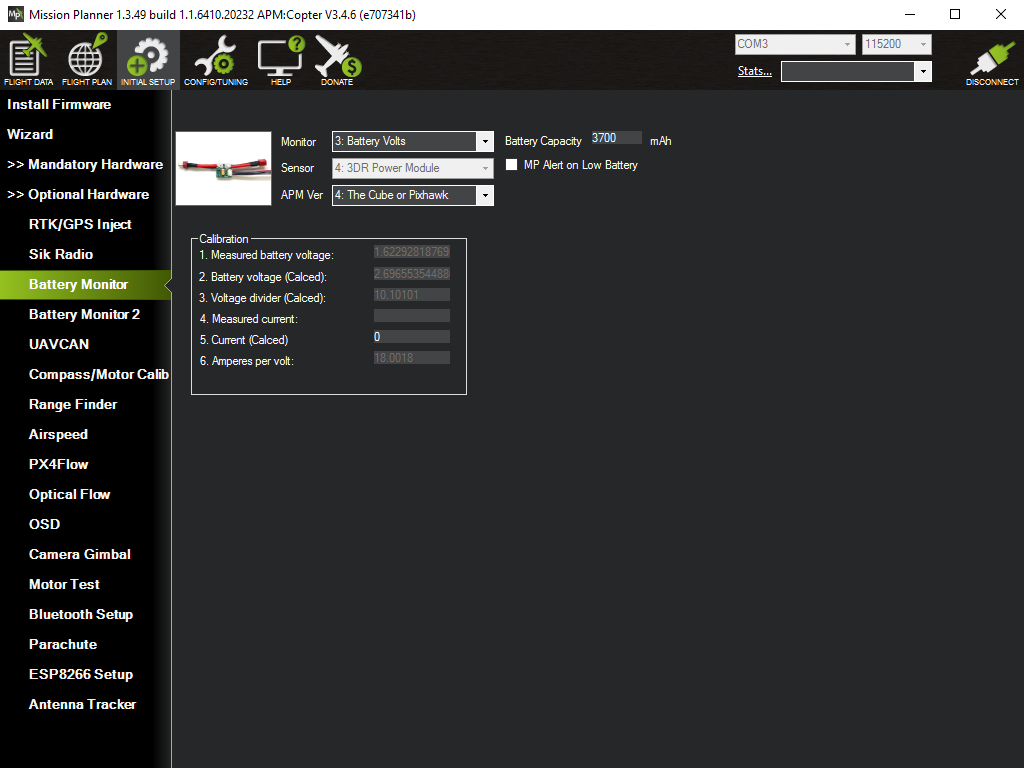
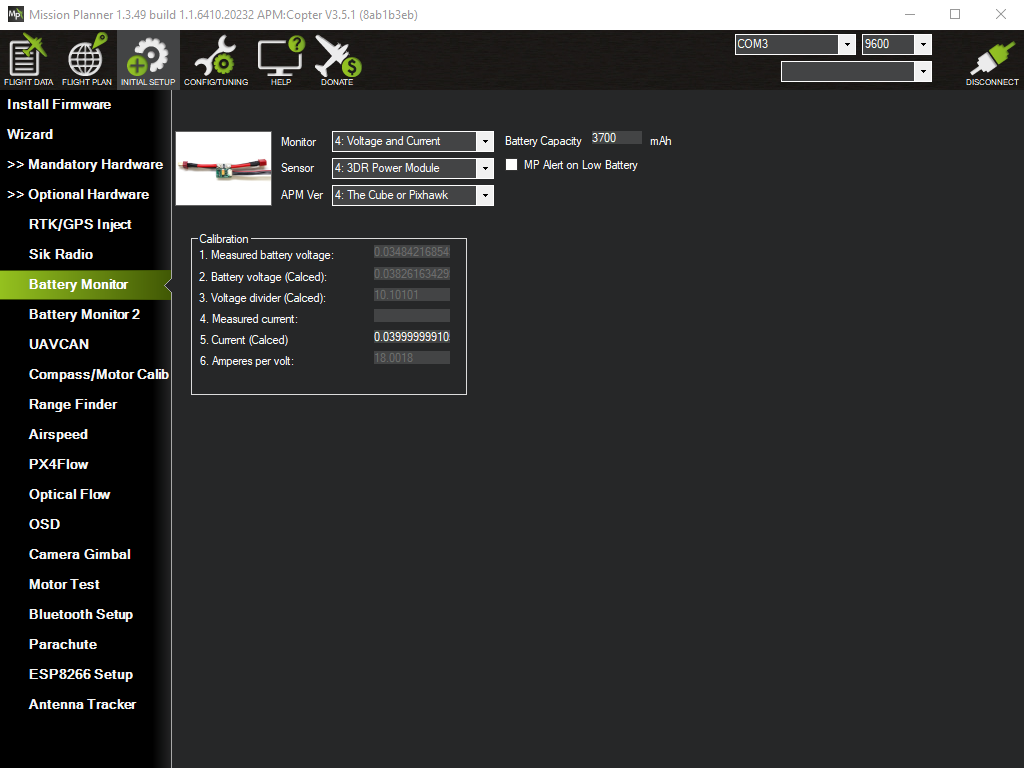
Added section on MP bugs.

diff --git a/pixhawk-setup.md b/pixhawk-setup.md
@@ -232,6 +232,31 @@ _High accuracy HDOP value reached._
 
 What MP considers a good enough HDOP values is controlled by the parameter `GPS_HDOP_GOOD` - by default it's 1.4. You can find this parameter mentioned under "High GPS HDOP" on the ArduCopter [pre-arm safety check page](http://ardupilot.org/copter/docs/prearm_safety_check.html). This is an advanced parameter so you won't see it listed in the _Standard Parameters_ section of MP - to examine it you have to enable MP's advanced mode and look for it in the _Full Parameter List_ section that then becomes visible - modifying this parameter is not recommended.
 
+Bugs
+----
+
+On the whole MP is a great piece of open source software - the author [Michael Oborne](http://diydrones.com/profiles/blogs/meet-the-developers-michael-oborne) has put an immense amount of work into it and has been actively developing it for years now.
+
+Like all large pieces of software it does have bugs and I came across a few minor ones. They may well be fixed by the time you read this but you may want to check the following after completing the wizard.
+
+First go to _Optional Hardware_ and then to _Battery Monitor_ and check that the _Monitor_, _Sensor_, _APM Ver_ and _Battery Capacity_ are all as expected.
+
+_Correct battery monitor settings._  
+![battery monitor settings](images/mission-planner/battery-monitor.png)
+
+This is related to issue [#1623](https://github.com/ArduPilot/MissionPlanner/issues/1623) whereby the _Monitor_ value may flip to disabled if you go through the wizard more than once.
+
+Note: some simpler sensors only monitor voltage but the battery module can monitor both voltage and current - if you're interested you can see its pinout at the bottom of [this page](https://www.unmannedtechshop.co.uk/high-voltage-apm-power-module-with-3a-ubec/) and find detailed coverage in the ArduPilot [power module section](http://ardupilot.org/copter/docs/common-3dr-power-module.html).
+
+Second go to _Mandatory Hardware_ and then to _FailSafe_ and check that the GCS and battery failsafes are disabled and that the radio failsafe is enabled, set to the expected action and has the expected _FS Pwm_ value.
+
+_Correct failsafe settings._  
+![failsafe settings](images/mission-planner/correct-failsafes.png)
+
+This is related to issue [#1624](https://github.com/ArduPilot/MissionPlanner/issues/1624) whereby the failsafe setttings shown in the wizard may not be in sync with those displayed outside the wizard in the _FailSafe_ section.
+
+The only other issue I logged was a minor cosmetic one - issue [#1622](https://github.com/ArduPilot/MissionPlanner/issues/1624) - related to the old "DistToMAV" appearing instead of the more intuitive replacement "Dist to Home" under certain circumstances.
+
 ---
 
 Inprogress
@@ -255,11 +280,11 @@ Add these next steps to the list of wizard steps documented above. Geofencing do
 
 **Update:** geofence requires a precise initial position fix (see the GPS section elsewhere) so that it can determine the bounds of the fence. If you're setting things up initially indoors with your GPS unit balanced on a windowsill it can be hard to achive the GPS accuracy needed and as a result you won't be able to arm the flight controller (the error "check fence" will keep on being displayed on the HUD when you attempt to arm). So you may want to disable geofence initially and only enable it later when you're ready to really go outdoors where the GPS unit has a clearer view of the sky.
 
-TODO: can you see the accuracy of the current fix anywhere and how accurate a fix things like geofencing want?
+Failsafe actions are actions that the flight controller will automatically take if certain conditions occur. We can configure actions to occur when the battery level falls too low, when contact is lost with the transmitter and when contact is lost with the ground control station (GCS). The only failsafe we'll configure at this point is what to do when contact is lost with the transmitter - the options are continue mission in auto, RTL and land. There's no choice that's right for every situation but RTL is probably the most appropriate - assuming the failure is due to distance (rather than equipment failure) returning to the point of takeoff should quickly bring the craft back into transmitter range (at which point one can just let it complete the RTL sequence or retake control).
 
-Failsafes - there's no right answer, e.g. is RTL really good for battery failsafe - maybe land would be better. GCS failsafe seems to be another thing that the wizard fails to save, if you later go to _FailSafe_ GCS appears as uncheked, acutally its in an odd indeterminate state - if you click it the checkbox goes from just an outline to being solid white and unchecked, if you click it again it becomes checked (and no clicking or unclicking will return it to the initial outline state) - just as odd there are no options for GCS here despite you being able to select between different options in the wizard, e.g. continue with mission.
+As we currently have no GCS (we'll come to that much later) we won't enable the GCS failsafe. And instead of enabling a failsafe for the low battery situation, we'll later configure an alarm on the transmitter for this situation and you can decide yourself what action to take if this alarm goes off.
 
-TODO: check that the odd indeterminate state of the checkbox isn't just crap initial setup of the components - if I actively disable the GCS failsafe and exit and reenter MP do I see that odd state or similarly if I actively enabled the GCS failsafe?
+Note that the failsafe related to losing contact with the transmitter is called the "throttle failsafe" here in the wizard but if you later go to the _FailSafe_ section under _Mandatory Hardware_ you'll see it's got the more obvious name "radio failsafe". The throttle name is a historical hangover from the original mechanism (mentioned earlier) used for triggering this failsafe.
 
 _Failsafes._  
 ![failsafes](images/mission-planner/failsafes.png)
@@ -269,21 +294,9 @@ _Geofence_
 
 Geofence is (as you can see) step 14, step 15 is a page of links to look at before your first flight, step 16 doesn't exist as a page at all - pressing finish is step 16 and exits the wizard.
 
-Oddly completing the battery monitor step in the wizard doesn't result in it being enabled. Battery monitor is the only item in optional hardware that we have though we'll be adding an SiK radio later.
+Battery monitor is the only item in optional hardware that we have though we'll be adding an SiK radio later.
 
 Note: the K in SiK is for kilo, as in 1000, as the chip in the radio is a SiLabs Si1000 (from the ["what does SiK mean" section](https://github.com/ArduPilot/SiK#what-does-sik-mean) of the SiK firmware README).
-
-TODO: you can enale just volts or volts and current, I'm guessing the power module only delivers voltage information and the Pixhawk can't see current without an additional sensor? Should I enable the "MP alarm" checkbox.
-
-**Update:** wrong - the power module can sense both voltage and current - see the pin out image on [this page](https://www.unmannedtechshop.co.uk/high-voltage-apm-power-module-with-3a-ubec/) and the ArduCopter [power module documentation](http://ardupilot.org/copter/docs/common-3dr-power-module.html).
-
-_Battery monitor._  
-![battery monitor](images/mission-planner/battery-monitor.png)
-
-Even though I set FS Pwm in the wizard (see above), the default value is still seen here afterward. So I lowered it here. Perhaps don't even mention FS Pwn when going thru the wizard - and add it (and a screenshot) as an issue addressed when trying to arm for the first time.
-
-_FS Pwm._  
-![FS Pwm setting](images/mission-planner/fs-pwm.png)
 
 Confirm that pitch is reversed.
 
